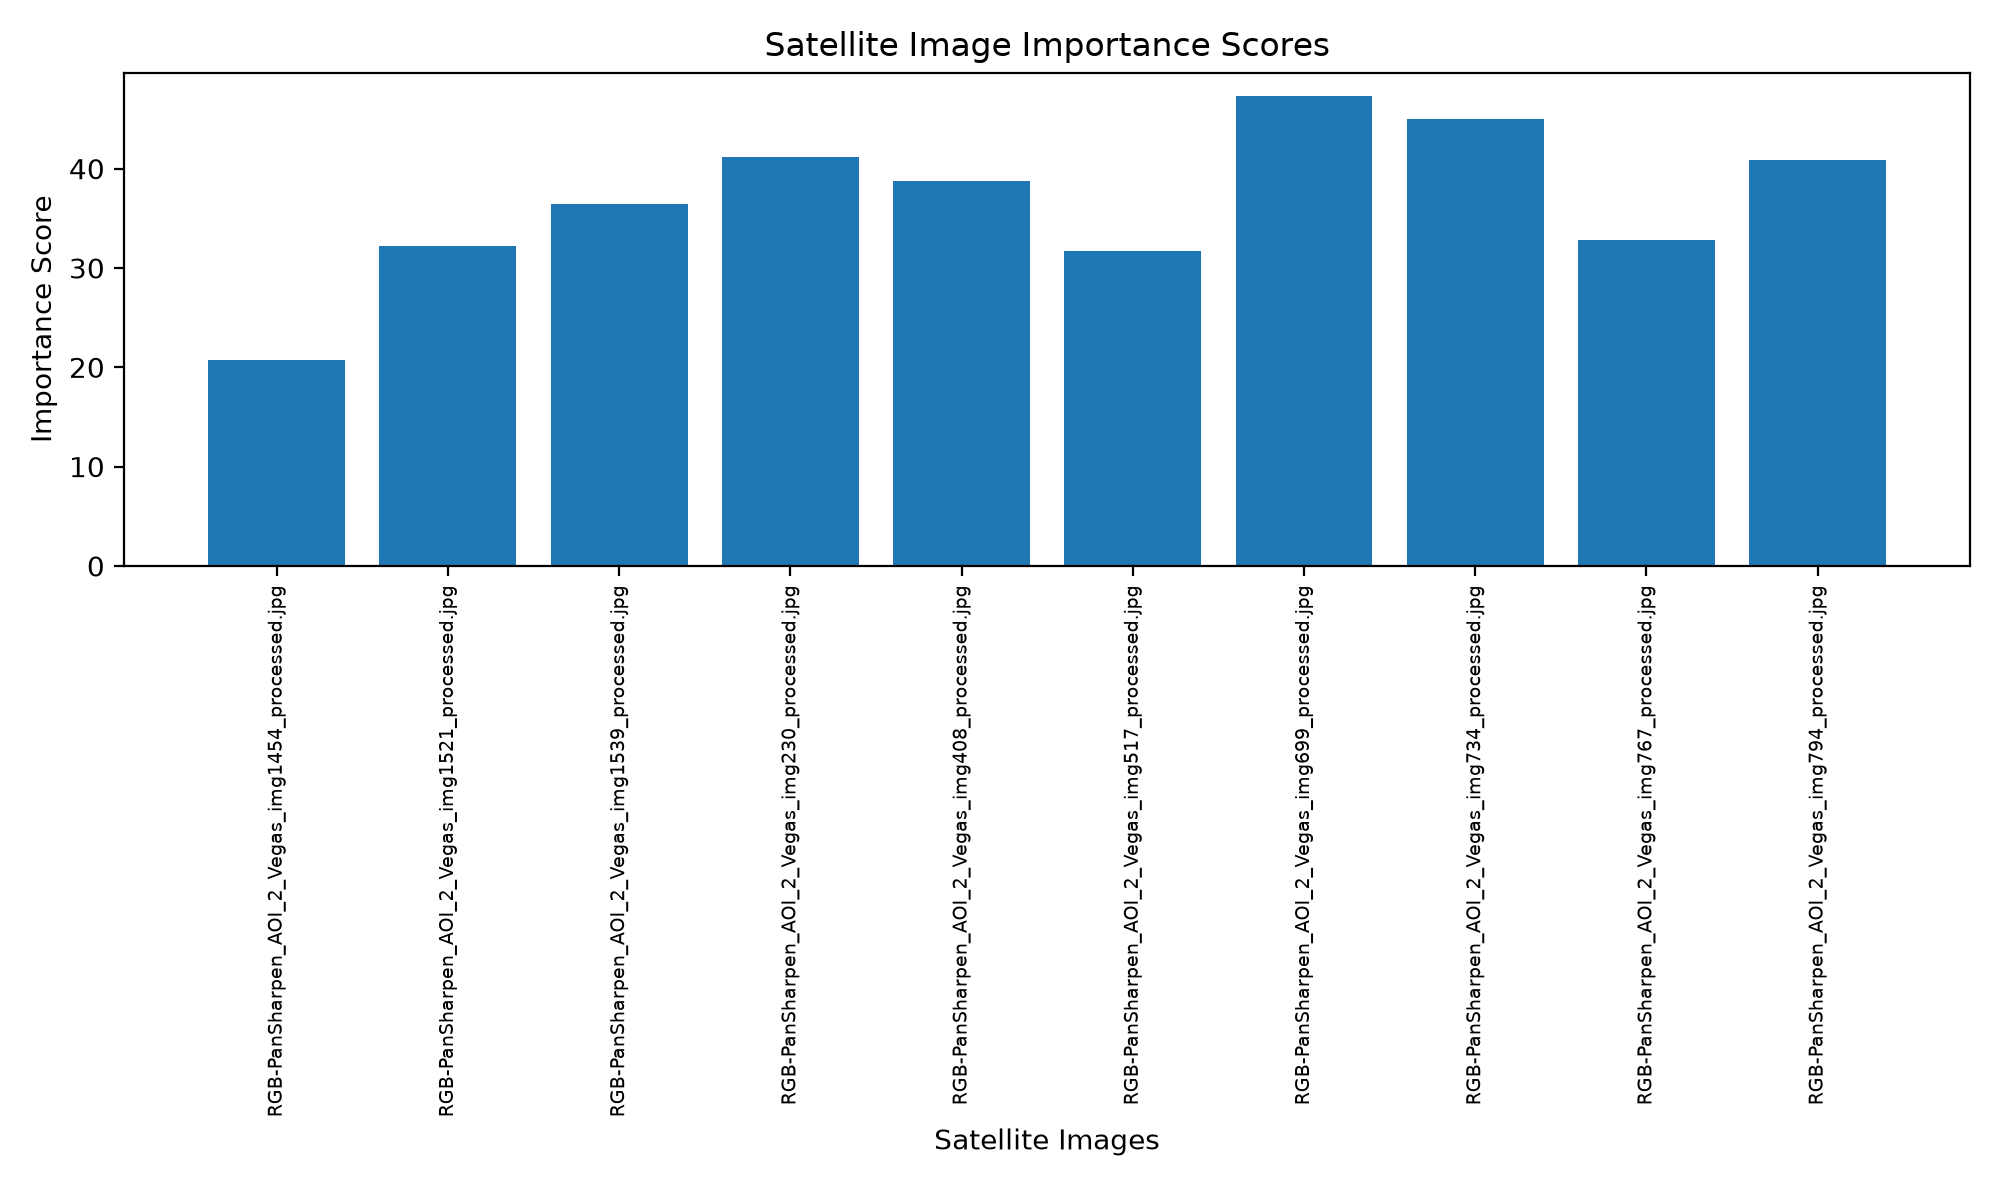
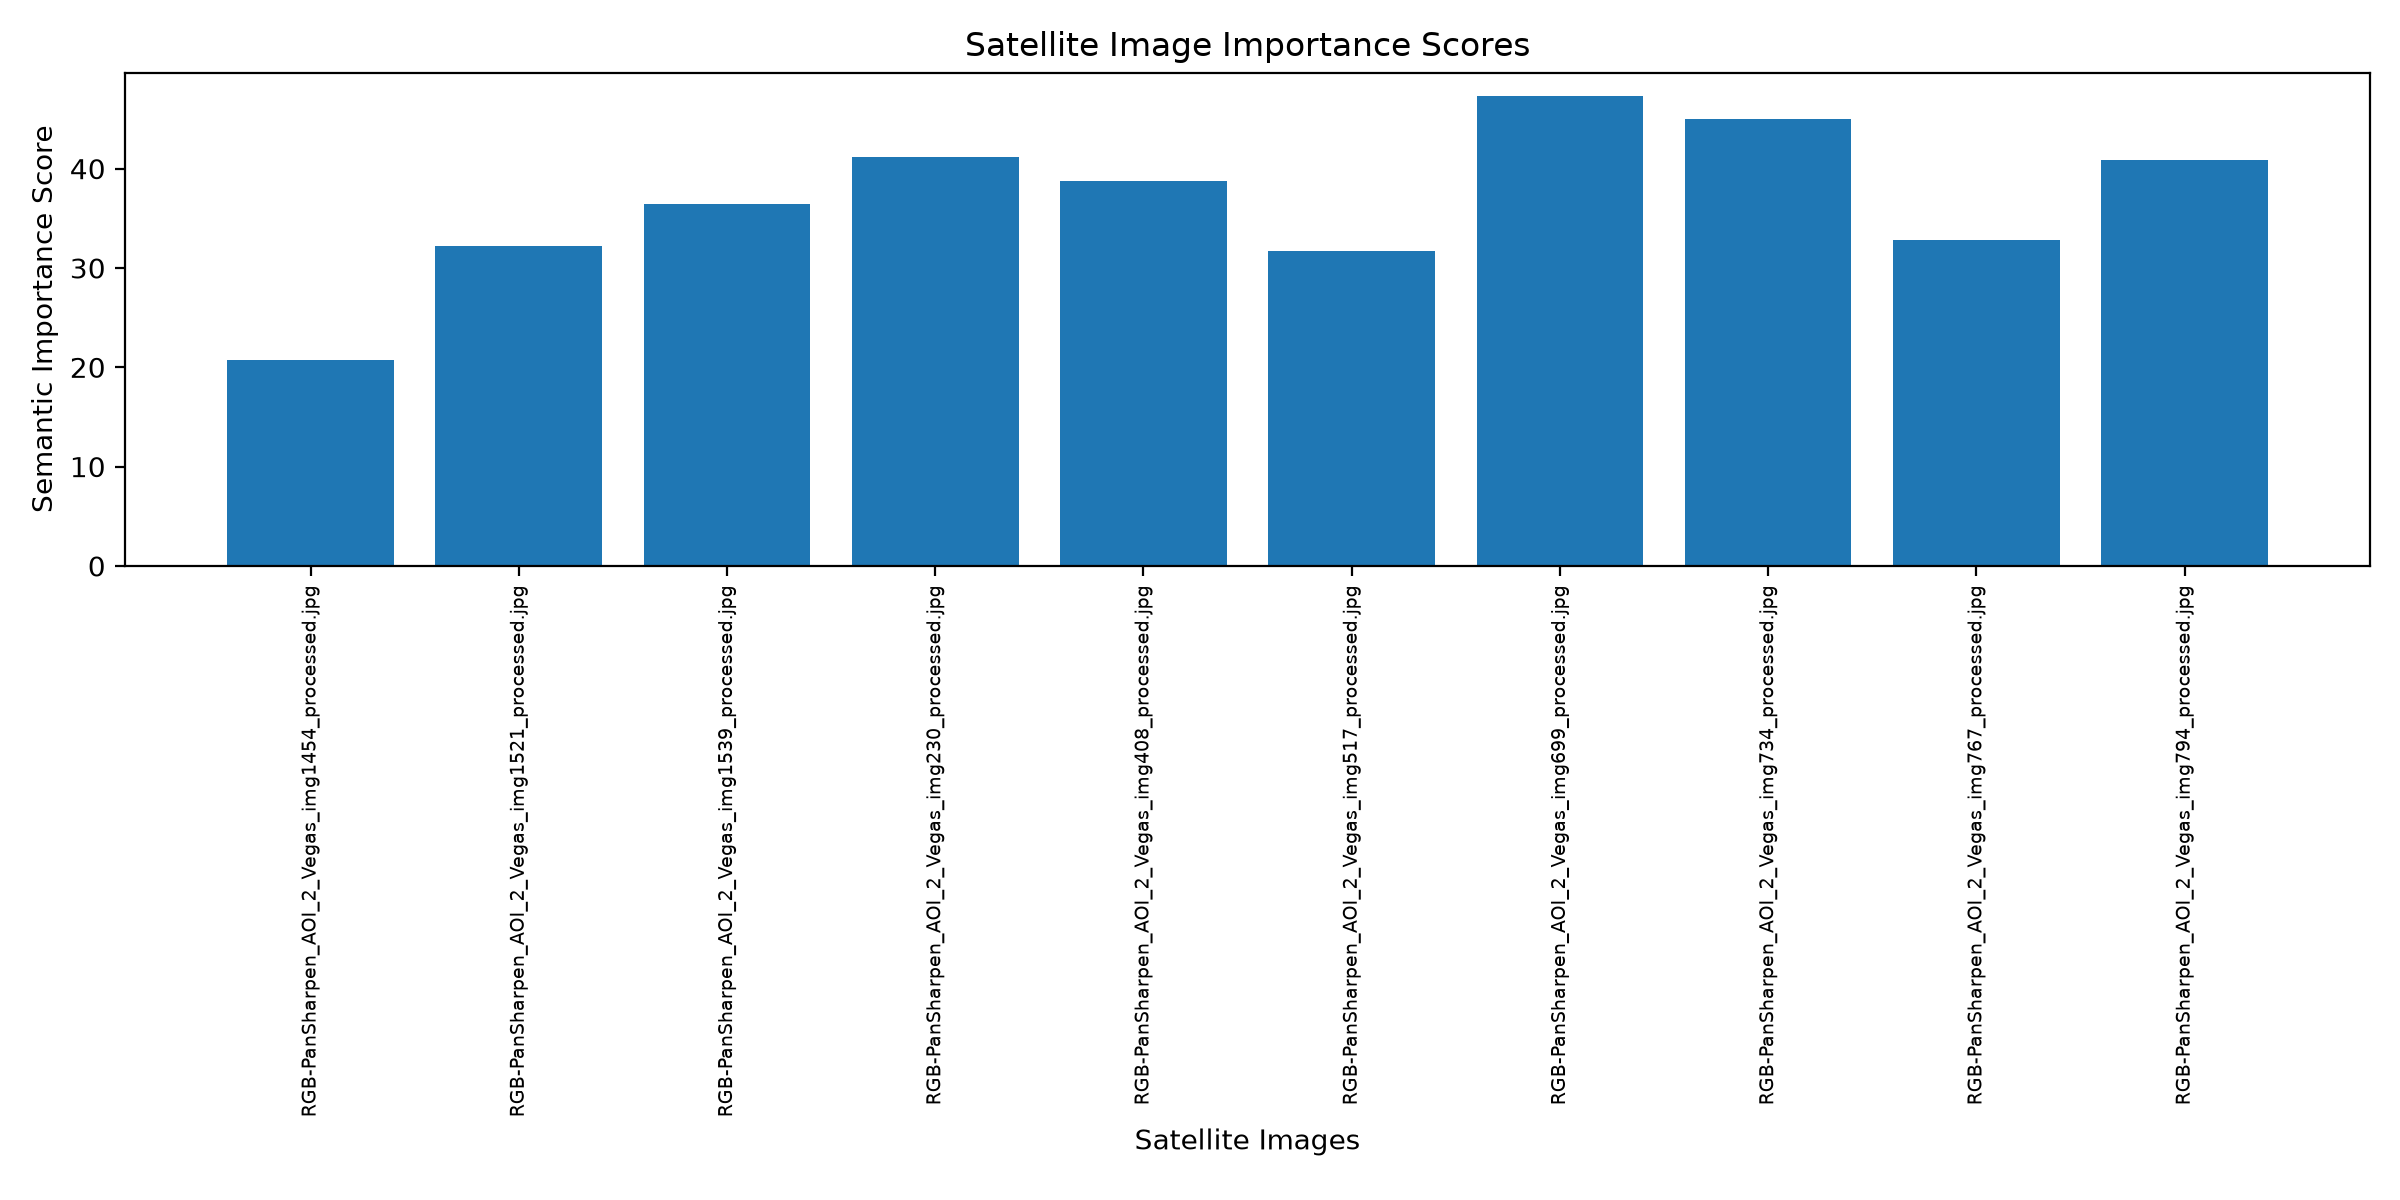
Improve results dashboard visualizations

diff --git a/src/dashboard/dashboard.py b/src/dashboard/dashboard.py
@@ -19,38 +19,86 @@ def create_dashboard():
     # Load results
     df = pd.read_csv(RESULTS_FILE)
 
-    # Category counts
+    # Calculate distributions
     category_counts = df["category"].value_counts()
-
-    # Storage counts
     storage_counts = df["storage_class"].value_counts()
 
-    # Create figure
-    plt.figure(figsize=(10, 6))
+    # ============================================================
+    # 1. Importance Score Chart
+    # ============================================================
 
-    # Importance scores
+    plt.figure(figsize=(12, 6))
+
     plt.bar(
         df["image_name"],
         df["importance_score"]
     )
 
     plt.xlabel("Satellite Images")
-    plt.ylabel("Importance Score")
+    plt.ylabel("Semantic Importance Score")
     plt.title("Satellite Image Importance Scores")
 
     plt.xticks(rotation=90, fontsize=7)
+    plt.tight_layout()
+
+    score_chart = OUTPUT_DIR / "importance_scores_chart.png"
+    plt.savefig(score_chart, dpi=200)
+    plt.close()
+
+    # ============================================================
+    # 2. Category Distribution Chart
+    # ============================================================
+
+    plt.figure(figsize=(8, 5))
+
+    plt.bar(
+        category_counts.index,
+        category_counts.values
+    )
+
+    plt.xlabel("Importance Category")
+    plt.ylabel("Number of Images")
+    plt.title("Importance Category Distribution")
 
     plt.tight_layout()
 
-    # Save chart
-    output_file = OUTPUT_DIR / "importance_scores_chart.png"
-    plt.savefig(output_file, dpi=200)
-
+    category_chart = OUTPUT_DIR / "category_distribution.png"
+    plt.savefig(category_chart, dpi=200)
     plt.close()
+
+    # ============================================================
+    # 3. Storage Tier Distribution Chart
+    # ============================================================
+
+    plt.figure(figsize=(9, 5))
+
+    plt.bar(
+        storage_counts.index,
+        storage_counts.values
+    )
+
+    plt.xlabel("Simulated Storage Tier")
+    plt.ylabel("Number of Images")
+    plt.title("Simulated Cloud Storage Distribution")
+
+    plt.xticks(rotation=20)
+    plt.tight_layout()
+
+    storage_chart = OUTPUT_DIR / "storage_distribution.png"
+    plt.savefig(storage_chart, dpi=200)
+    plt.close()
+
+    # ============================================================
+    # Console Summary
+    # ============================================================
 
     print("=" * 60)
     print("PROJECT RESULTS DASHBOARD")
     print("=" * 60)
+
+    print()
+    print("Total Images Processed:")
+    print(len(df))
 
     print()
     print("Category Distribution:")
@@ -61,10 +109,15 @@ def create_dashboard():
     print(storage_counts)
 
     print()
-    print(f"Dashboard chart saved to:")
-    print(output_file)
+    print("Charts generated:")
+
+    print(f"1. {score_chart}")
+    print(f"2. {category_chart}")
+    print(f"3. {storage_chart}")
 
     print()
+    print("=" * 60)
+    print("Dashboard generation complete.")
     print("=" * 60)
 
 
